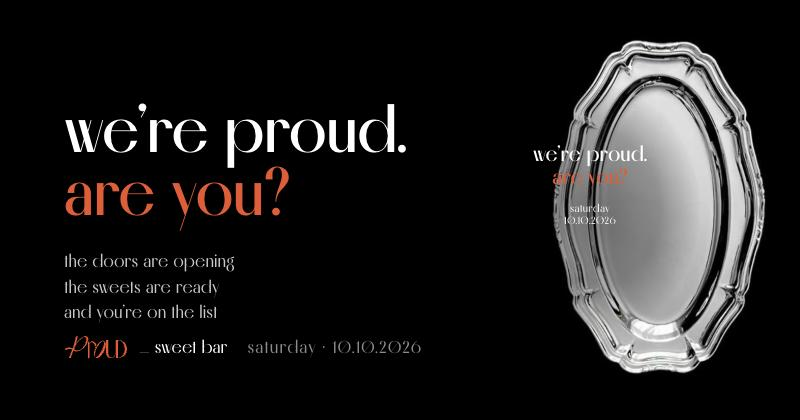
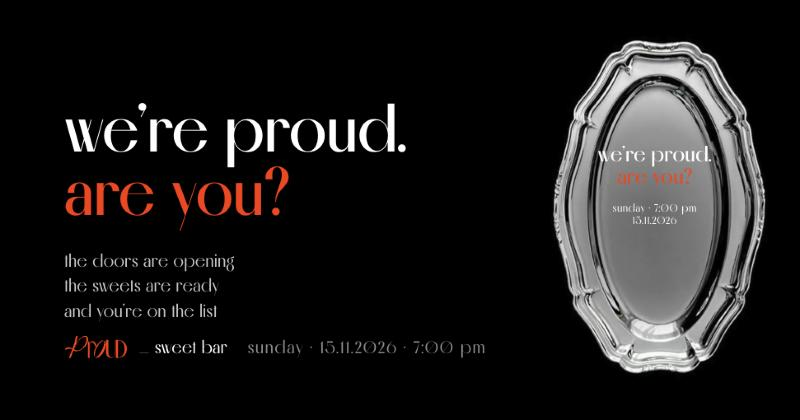
Move the opening to sunday 15.11.2026 at 7:00 pm; location QR on the card; hidden attribute fix

diff --git a/og.html b/og.html
@@ -4,7 +4,7 @@
 html,body{margin:0;background:#000;color:#fff;font-family:'Melodrama',Georgia,serif;font-weight:500;-webkit-font-smoothing:antialiased}
 .og{position:relative;width:1200px;height:630px;overflow:hidden;background:#000}
 .tray{position:absolute;left:640px;top:-150px;height:930px;width:auto}
-.velvet{position:absolute;left:720px;top:125px;width:330px;height:380px;border-radius:50%;background:radial-gradient(ellipse at 50% 50%,rgba(0,0,0,.45),rgba(0,0,0,.3) 45%,rgba(0,0,0,0) 72%)}
+.velvet{position:absolute;left:817px;top:125px;width:330px;height:380px;border-radius:50%;background:radial-gradient(ellipse at 50% 50%,rgba(0,0,0,.45),rgba(0,0,0,.3) 45%,rgba(0,0,0,0) 72%)}
 .copy{position:absolute;left:96px;top:150px}
 h1{margin:0;font-weight:600;font-size:92px;line-height:1.02;letter-spacing:-.01em}
 h1 em{font-style:normal;color:#ED532B}
@@ -12,17 +12,17 @@ h1 em{font-style:normal;color:#ED532B}
 .brand{position:absolute;left:96px;bottom:64px;display:flex;align-items:center;gap:16px;font-size:26px}
 .brand svg{width:96px;height:38px;fill:#ED532B}
 .brand span.d{color:rgba(255,255,255,.55);margin-left:14px;letter-spacing:.06em}
-.ontray{position:absolute;left:720px;top:215px;width:330px;text-align:center;font-weight:600;font-size:30px;line-height:1.12}
+.ontray{position:absolute;left:817px;top:215px;width:330px;text-align:center;font-weight:600;font-size:30px;line-height:1.12}
 .ontray em{font-style:normal;color:#ED532B}
 .ontray small{display:block;margin-top:22px;font-weight:500;font-size:16px;letter-spacing:.03em}
 </style></head><body>
 <div class="og">
   <img class="tray" src="assets/tray-still.png" alt="">
   <div class="velvet"></div>
-  <div class="ontray">we&rsquo;re proud.<br><em>are you?</em><small>saturday<br>10.10.2026</small></div>
+  <div class="ontray">we&rsquo;re proud.<br><em>are you?</em><small>sunday · 7:00 pm<br>15.11.2026</small></div>
   <div class="copy">
     <h1>we&rsquo;re proud.<br><em>are you?</em></h1>
     <p class="body">the doors are opening<br>the sweets are ready<br>and you&rsquo;re on the list</p>
   </div>
-  <p class="brand"><svg viewBox="0 0 42 16.5"><path transform="matrix(1 0 0 -1 3.1788 15.3171)" d="M0 0C.907 2.345 1.815 4.689 2.722 7.034 3.114 8.08 3.467 9.179 3.781 10.33 4.094 11.482 4.323 12.553 4.467 13.545 4.5 13.773 4.526 13.976 4.544 14.153L5.837 14.528 5.792 14.22C5.721 13.735 5.564 12.958 5.319 11.891 5.074 10.824 4.861 10.006 4.681 9.44 5.282 10.426 5.982 11.32 6.782 12.123 7.581 12.926 8.37 13.538 9.147 13.957 9.925 14.377 10.6 14.546 11.174 14.462 11.747 14.379 12.174 14.082 12.457 13.572 12.739 13.062 12.824 12.422 12.712 11.65 12.571 10.68 12.221 9.737 11.66 8.82 11.099 7.904 10.397 7.086 9.553 6.368 8.71 5.651 7.822 5.117 6.89 4.769 6.117 4.48 5.231 4.188 4.224 4.43 3.227 4.669 2.944 5.246 2.205 5.649 1.363 6.108-.037 6.324-2.482 5.234-2.43 5.592-2.378 5.949-2.326 6.307-1.173 7.04-.3 7.104 .29 7.022 1.718 6.823 3.3 5.514 4.895 5.059 4.99 5.032 5.141 4.995 5.337 4.966 5.947 4.878 6.588 4.993 7.261 5.311 7.934 5.63 8.567 6.125 9.16 6.797 9.707 7.415 10.213 8.21 10.677 9.182 11.141 10.154 11.426 11.011 11.534 11.754 11.624 12.371 11.589 12.867 11.43 13.243 11.271 13.619 11.003 13.834 10.629 13.889 10.1 13.965 9.446 13.751 8.667 13.245 7.888 12.739 7.093 12.016 6.281 11.076 5.696 10.41 5.182 9.675 4.739 8.869 4.295 8.063 3.867 7.116 3.454 6.028 2.687 4.018 1.92 2.009 1.153 0Z"/><path transform="matrix(1 0 0 -1 24.8120 10.3071)" d="M0 0C1.216 2.346 2.085 5.671 1.284 6.154 .491 6.633-1.928 4.325-3.243 1.79-4.563-.754-5.075-4.113-4.245-4.522-3.408-4.935-1.213-2.34 0 0M-3.906 2.152C-2.226 5.401 .084 7.07 1.577 6.255 3.069 5.44 3.009 2.543 1.329-.706-.351-3.956-2.662-5.644-4.154-4.829-5.647-4.014-5.585-1.097-3.906 2.152"/><path transform="matrix(1 0 0 -1 29.0865 11.8852)" d="M0 0C0-1.751 .819-3.015 2.228-3.015 3.604-3.015 4.489-1.751 4.489 0V8.404H4.718V0C4.718-2.071 3.489-3.436 1.671-3.436-.148-3.436-1.458-2.105-1.458 0V8.404H0Z"/><path transform="matrix(1 0 0 -1 35.4923 3.7030)" d="M0 0V-11.396H.082C2.523-11.396 4.374-9.038 4.374-5.689 4.374-2.358 2.523 0 .082 0ZM-1.442 .222H.082C3.375 .222 5.865-2.221 5.865-5.689 5.865-9.158 3.375-11.618 .082-11.618H-1.442Z"/><path transform="matrix(1 0 0 -1 20.3723 5.1178)" d="M0 0C-.297 .329-.738 .816-1.445 .896-2.146 .974-2.677 .607-2.878 .471-3.295 .186-3.62-.229-3.828-.738V.683H-4.461C-4.526 .477-4.591 .271-4.656 .065-4.652-3.364-4.647-6.793-4.642-10.222-4.288-10.214-3.934-10.207-3.581-10.199V-1.943C-3.581-1.791-3.605-1.277-3.332-.739-3.263-.603-2.857 .196-2.199 .28-1.126 .418-.263-1.452-.208-1.574 .085-2.218 .145-2.818 .149-3.221 .391-2.77 .634-2.319 .877-1.868 .808-1.45 .615-.68 0 0"/></svg><span>_ sweet bar</span><span class="d">saturday · 10.10.2026</span></p>
+  <p class="brand"><svg viewBox="0 0 42 16.5"><path transform="matrix(1 0 0 -1 3.1788 15.3171)" d="M0 0C.907 2.345 1.815 4.689 2.722 7.034 3.114 8.08 3.467 9.179 3.781 10.33 4.094 11.482 4.323 12.553 4.467 13.545 4.5 13.773 4.526 13.976 4.544 14.153L5.837 14.528 5.792 14.22C5.721 13.735 5.564 12.958 5.319 11.891 5.074 10.824 4.861 10.006 4.681 9.44 5.282 10.426 5.982 11.32 6.782 12.123 7.581 12.926 8.37 13.538 9.147 13.957 9.925 14.377 10.6 14.546 11.174 14.462 11.747 14.379 12.174 14.082 12.457 13.572 12.739 13.062 12.824 12.422 12.712 11.65 12.571 10.68 12.221 9.737 11.66 8.82 11.099 7.904 10.397 7.086 9.553 6.368 8.71 5.651 7.822 5.117 6.89 4.769 6.117 4.48 5.231 4.188 4.224 4.43 3.227 4.669 2.944 5.246 2.205 5.649 1.363 6.108-.037 6.324-2.482 5.234-2.43 5.592-2.378 5.949-2.326 6.307-1.173 7.04-.3 7.104 .29 7.022 1.718 6.823 3.3 5.514 4.895 5.059 4.99 5.032 5.141 4.995 5.337 4.966 5.947 4.878 6.588 4.993 7.261 5.311 7.934 5.63 8.567 6.125 9.16 6.797 9.707 7.415 10.213 8.21 10.677 9.182 11.141 10.154 11.426 11.011 11.534 11.754 11.624 12.371 11.589 12.867 11.43 13.243 11.271 13.619 11.003 13.834 10.629 13.889 10.1 13.965 9.446 13.751 8.667 13.245 7.888 12.739 7.093 12.016 6.281 11.076 5.696 10.41 5.182 9.675 4.739 8.869 4.295 8.063 3.867 7.116 3.454 6.028 2.687 4.018 1.92 2.009 1.153 0Z"/><path transform="matrix(1 0 0 -1 24.8120 10.3071)" d="M0 0C1.216 2.346 2.085 5.671 1.284 6.154 .491 6.633-1.928 4.325-3.243 1.79-4.563-.754-5.075-4.113-4.245-4.522-3.408-4.935-1.213-2.34 0 0M-3.906 2.152C-2.226 5.401 .084 7.07 1.577 6.255 3.069 5.44 3.009 2.543 1.329-.706-.351-3.956-2.662-5.644-4.154-4.829-5.647-4.014-5.585-1.097-3.906 2.152"/><path transform="matrix(1 0 0 -1 29.0865 11.8852)" d="M0 0C0-1.751 .819-3.015 2.228-3.015 3.604-3.015 4.489-1.751 4.489 0V8.404H4.718V0C4.718-2.071 3.489-3.436 1.671-3.436-.148-3.436-1.458-2.105-1.458 0V8.404H0Z"/><path transform="matrix(1 0 0 -1 35.4923 3.7030)" d="M0 0V-11.396H.082C2.523-11.396 4.374-9.038 4.374-5.689 4.374-2.358 2.523 0 .082 0ZM-1.442 .222H.082C3.375 .222 5.865-2.221 5.865-5.689 5.865-9.158 3.375-11.618 .082-11.618H-1.442Z"/><path transform="matrix(1 0 0 -1 20.3723 5.1178)" d="M0 0C-.297 .329-.738 .816-1.445 .896-2.146 .974-2.677 .607-2.878 .471-3.295 .186-3.62-.229-3.828-.738V.683H-4.461C-4.526 .477-4.591 .271-4.656 .065-4.652-3.364-4.647-6.793-4.642-10.222-4.288-10.214-3.934-10.207-3.581-10.199V-1.943C-3.581-1.791-3.605-1.277-3.332-.739-3.263-.603-2.857 .196-2.199 .28-1.126 .418-.263-1.452-.208-1.574 .085-2.218 .145-2.818 .149-3.221 .391-2.77 .634-2.319 .877-1.868 .808-1.45 .615-.68 0 0"/></svg><span>_ sweet bar</span><span class="d">sunday · 15.11.2026 · 7:00 pm</span></p>
 </div></body></html>

diff --git a/index.html b/index.html
@@ -4,14 +4,14 @@
 <meta charset="utf-8">
 <meta name="viewport" content="width=device-width, initial-scale=1, viewport-fit=cover">
 <title>we're proud. are you? — PROUD _ sweet bar</title>
-<meta name="description" content="the doors are opening. the sweets are ready. and you're on the list. PROUD _ sweet bar — saturday 10.10.2026">
+<meta name="description" content="the doors are opening. the sweets are ready. and you're on the list. PROUD _ sweet bar — sunday 15.11.2026, 7:00 pm">
 <meta name="theme-color" content="#000000">
 <meta name="apple-mobile-web-app-status-bar-style" content="black">
 <meta property="og:title" content="we're proud. are you?">
-<meta property="og:description" content="the doors are opening · the sweets are ready · and you're on the list — PROUD _ sweet bar, saturday 10.10.2026">
+<meta property="og:description" content="the doors are opening · the sweets are ready · and you're on the list — PROUD _ sweet bar, sunday 15.11.2026, 7:00 pm">
 <meta property="og:type" content="website">
 <meta property="og:url" content="https://n8ww.github.io/proud-invite/">
-<meta property="og:image" content="https://n8ww.github.io/proud-invite/assets/og.jpg">
+<meta property="og:image" content="https://n8ww.github.io/proud-invite/assets/og.jpg?v=1115">
 <meta property="og:image:width" content="800">
 <meta property="og:image:height" content="420">
 <meta name="twitter:card" content="summary_large_image">
@@ -20,7 +20,7 @@
 <link rel="preconnect" href="https://cdn.fontshare.com" crossorigin>
 <link rel="preload" as="image" href="assets/tray-still.png">
 <link rel="stylesheet" href="https://api.fontshare.com/v2/css?f[]=melodrama@400,500,600,700&display=swap">
-<link rel="stylesheet" href="css/style.css">
+<link rel="stylesheet" href="css/style.css?v=1115">
 </head>
 <body>
 <svg width="0" height="0" style="position:absolute" aria-hidden="true">
@@ -48,7 +48,7 @@
                 <span class="line line--orange"><span>are you?</span></span>
               </p>
               <p class="tray__brand"><svg class="wordmark wordmark--orange"><use href="#proud"/></svg><span class="tray__bar">_ sweet bar</span></p>
-              <p class="tray__when"><span data-day>saturday</span><br><span data-date>10.10.2026</span></p>
+              <p class="tray__when"><span data-daytime>sunday · 7:00 pm</span><br><span data-date>15.11.2026</span></p>
             </div>
             <div class="glint"></div>
           </div>
@@ -66,11 +66,11 @@
   </section>
 
   <section class="when">
-    <p class="when__day"><span class="mask"><span data-day>saturday</span></span></p>
-    <h1 class="when__date"><span class="mask"><span data-date>10.10.2026</span></span></h1>
+    <p class="when__day"><span class="mask"><span data-day>sunday</span></span></p>
+    <h1 class="when__date"><span class="mask"><span data-date>15.11.2026</span></span></h1>
+    <p class="when__time" data-time-wrap><span class="mask"><span data-time-big>7:00 pm</span></span></p>
     <i class="when__rule" aria-hidden="true"></i>
     <dl class="when__details" data-details hidden>
-      <div data-row="time" hidden><dt>time</dt><dd data-time></dd></div>
       <div data-row="venue" hidden><dt>venue</dt><dd data-venue></dd></div>
     </dl>
     <div class="when__actions">
@@ -89,8 +89,8 @@
         <p class="card__body">the doors are opening<br>the sweets are ready<br>and you&rsquo;re on the list</p>
         <p class="card__name" data-name hidden></p>
         <p class="card__brand"><svg class="wordmark wordmark--orange"><use href="#proud"/></svg><span class="card__bar">_ sweet bar</span></p>
-        <i class="card__square" aria-hidden="true"></i>
-        <p class="card__when"><span data-day>saturday</span><br><span data-date>10.10.2026</span></p>
+        <a class="card__square" data-square href="#" target="_blank" rel="noopener" aria-label="open the location in maps"><img src="assets/qr.svg?v=1115" alt="" draggable="false"></a>
+        <p class="card__when"><span data-daytime>sunday · 7:00 pm</span><br><span data-date>15.11.2026</span></p>
       </div>
       <div class="glint"></div>
     </div>
@@ -98,14 +98,14 @@
 
   <section class="end">
     <p class="end__brand"><svg class="wordmark wordmark--orange"><use href="#proud"/></svg><span>_ sweet bar</span></p>
-    <p class="end__meta"><span data-day>saturday</span> · <span data-date>10.10.2026</span></p>
+    <p class="end__meta"><span data-daytime>sunday · 7:00 pm</span> · <span data-date>15.11.2026</span></p>
   </section>
 </main>
 
 <script src="https://cdnjs.cloudflare.com/ajax/libs/gsap/3.13.0/gsap.min.js" defer></script>
 <script src="https://cdnjs.cloudflare.com/ajax/libs/gsap/3.13.0/ScrollTrigger.min.js" defer></script>
 <script src="https://unpkg.com/lenis@1.3.4/dist/lenis.min.js" defer></script>
-<script src="config.js" defer></script>
-<script src="js/main.js" defer></script>
+<script src="config.js?v=1115" defer></script>
+<script src="js/main.js?v=1115" defer></script>
 </body>
 </html>

diff --git a/js/main.js b/js/main.js
@@ -26,13 +26,18 @@
     const h = hp.get('to') || hp.get('name') || sp.get('to') || sp.get('name');
     return h ? h.trim().slice(0, 40) : '';
   })();
-  $$('[data-day]').forEach(el => el.textContent = cfg.dayLabel || 'saturday');
-  $$('[data-date]').forEach(el => el.textContent = cfg.dateLabel || '10.10.2026');
+  const day = cfg.dayLabel || 'sunday', dateLabel = cfg.dateLabel || '15.11.2026';
+  const dayTime = cfg.time ? `${day} · ${cfg.time}` : day;
+  $$('[data-day]').forEach(el => el.textContent = day);
+  $$('[data-daytime]').forEach(el => el.textContent = dayTime);
+  $$('[data-date]').forEach(el => el.textContent = dateLabel);
+  if (cfg.time) $('[data-time-big]').textContent = cfg.time; else $('[data-time-wrap]').hidden = true;
   const details = $('[data-details]');
-  let anyDetail = false;
-  if (cfg.time) { $('[data-time]').textContent = cfg.time; $('[data-row="time"]').hidden = false; anyDetail = true; }
-  if (cfg.venue) { $('[data-venue]').textContent = cfg.venue; $('[data-row="venue"]').hidden = false; anyDetail = true; }
-  details.hidden = !anyDetail;
+  if (cfg.venue) { $('[data-venue]').textContent = cfg.venue; $('[data-row="venue"]').hidden = false; details.hidden = false; } else details.hidden = true;
+  // the white square on the card carries the location QR and opens the same link when tapped
+  const square = $('[data-square]');
+  if (cfg.mapUrl) { square.href = cfg.mapUrl; square.addEventListener('click', e => e.stopPropagation()); }
+  else { square.removeAttribute('href'); square.removeAttribute('target'); const im = $('img', square); if (im) im.remove(); }
   const rsvp = $('[data-rsvp]');
   rsvp.textContent = cfg.rsvpLabel || 'rsvp';
   if (cfg.rsvpUrl) { rsvp.href = cfg.rsvpUrl; rsvp.target = '_blank'; } else { rsvp.classList.add('is-pending'); rsvp.removeAttribute('href'); rsvp.setAttribute('aria-disabled', 'true'); }
@@ -45,13 +50,15 @@
     let dates;
     if (cfg.timeStart) {
       const s = cfg.timeStart.replace(':', '') + '00';
-      const e = (cfg.timeEnd || cfg.timeStart).replace(':', '') + '00';
+      let e;
+      if (cfg.timeEnd) e = cfg.timeEnd.replace(':', '') + '00';
+      else { const [hh, mm] = cfg.timeStart.split(':').map(Number); e = hh + 3 > 23 ? '235900' : String(hh + 3).padStart(2, '0') + String(mm).padStart(2, '0') + '00'; }   // default length: 3 hours
       dates = `${d}T${s}/${d}T${e}`;
     } else {
       const next = new Date(cfg.date + 'T00:00:00Z'); next.setUTCDate(next.getUTCDate() + 1);
       dates = `${d}/${next.toISOString().slice(0, 10).replace(/-/g, '')}`;
     }
-    const q = new URLSearchParams({ action: 'TEMPLATE', text: cfg.eventTitle || 'PROUD _ sweet bar', dates, details: "we're proud. are you?", location: cfg.venue || '' });
+    const q = new URLSearchParams({ action: 'TEMPLATE', text: cfg.eventTitle || 'PROUD _ sweet bar', dates, details: "we're proud. are you?", location: cfg.venue || cfg.mapUrl || '' });
     if (cfg.timeStart) q.set('ctz', 'Asia/Riyadh');
     cal.href = 'https://calendar.google.com/calendar/render?' + q.toString();
   }
@@ -286,6 +293,7 @@
     const when = gsap.timeline({ scrollTrigger: { trigger: '.when', start: 'top 72%', once: true } });
     when.to('.when__day .mask > span', { yPercent: 0, duration: 1, ease: 'expo.out' }, 0);
     when.to('.when__date .mask > span', { yPercent: 0, duration: 1.3, ease: 'expo.out' }, 0.12);
+    when.to('.when__time .mask > span', { yPercent: 0, duration: 1.1, ease: 'expo.out' }, 0.3);
     when.to('.when__rule', { scaleX: 1, duration: 1.2, ease: 'expo.out' }, 0.5);
     when.from(['.when__details', '.when__actions'], { opacity: 0, y: 14, duration: 1, ease: 'power2.out', stagger: 0.12 }, 0.7);
 

diff --git a/css/style.css b/css/style.css
@@ -129,6 +129,7 @@ p, h1, dl, dd { margin: 0; }
 }
 .when__day { font-size: clamp(14px, 1.8vw, 18px); letter-spacing: .34em; color: var(--dim); margin-bottom: 10px; padding-left: .34em; }
 .when__date { font-weight: 600; font-size: clamp(52px, 15vw, 168px); line-height: 1; letter-spacing: -.02em; font-variant-numeric: tabular-nums; }
+.when__time { font-weight: 500; font-size: clamp(22px, 4.4vw, 46px); line-height: 1.1; letter-spacing: .01em; margin-top: 16px; }
 .when__rule { display: block; width: min(60vw, 420px); height: 1px; margin: 34px 0 30px; background: linear-gradient(90deg, transparent, rgba(255,255,255,.55), transparent); transform: scaleX(0); }
 .when__details { display: grid; gap: 10px; margin-bottom: 30px; font-size: clamp(16px, 2.2vw, 22px); }
 .when__details div { display: flex; gap: 14px; justify-content: center; align-items: baseline; }
@@ -153,14 +154,15 @@ p, h1, dl, dd { margin: 0; }
 .card__still { position: absolute; height: 186.3%; width: auto; left: 50%; top: -42.2%; transform: translateX(-50%); max-width: none; pointer-events: none; }
 .card__text { position: absolute; inset: 0; text-align: center; color: var(--ink); }
 .card__text > * { position: absolute; left: 10%; right: 10%; }
-.card__title { top: 31.3%; font-weight: 600; font-size: 5.6cqh; line-height: 1.12; letter-spacing: -.005em; }
+.card__title { top: 28.8%; font-weight: 600; font-size: 5.6cqh; line-height: 1.12; letter-spacing: -.005em; }
 .card__title em { font-style: normal; color: var(--orange); }
-.card__body { top: 46.4%; font-weight: 500; font-size: 3.1cqh; line-height: 1.32; }
-.card__name { top: 58.2%; font-size: 2.6cqh; color: var(--orange); letter-spacing: .04em; }
-.card__brand { top: 62.4%; display: flex; justify-content: center; align-items: baseline; gap: .55em; font-size: 3.1cqh; }
+.card__body { top: 43.2%; font-weight: 500; font-size: 3.1cqh; line-height: 1.32; }
+.card__name { top: 55.9%; font-size: 2.6cqh; color: var(--orange); letter-spacing: .04em; }
+.card__brand { top: 59%; display: flex; justify-content: center; align-items: baseline; gap: .55em; font-size: 3.1cqh; }
 .card__brand .wordmark { font-size: 2.9em; align-self: center; }
-.card__square { top: 69.4%; left: 50% !important; right: auto !important; width: 6.5cqh; height: 6.5cqh; transform: translateX(-50%); background: #fff; }
-.card__when { top: 77%; font-size: 2.8cqh; line-height: 1.25; letter-spacing: .02em; }
+.card__square { top: 64.6%; left: 50% !important; right: auto !important; width: 10cqh; height: 10cqh; transform: translateX(-50%); background: #fff; display: block; }
+.card__square img { width: 100%; height: 100%; display: block; }
+.card__when { top: 76%; font-size: 2.8cqh; line-height: 1.25; letter-spacing: .02em; }
 
 /* ── end ────────────────────────────────────────────────── */
 .end { position: relative; z-index: 2; background: var(--bg); padding: 12svh var(--gutter) calc(env(safe-area-inset-bottom) + 14svh); display: grid; justify-items: center; text-align: center; gap: 18px; }
@@ -175,3 +177,6 @@ html.reduced .tray__brand .wordmark { clip-path: none; }
 html.reduced .scroll-cue { opacity: 1; } html.reduced .scroll-cue i { transform: none; }
 html.reduced .when__rule { transform: none; }
 html.reduced .blade, html.reduced .film { display: none; }
+
+/* the hidden attribute always wins over component display rules */
+[hidden] { display: none !important; }

diff --git a/config.js b/config.js
@@ -1,14 +1,14 @@
 // ── PROUD _ sweet bar · invitation settings ─────────────────────────────
 // Edit this file only. Leave a value empty ('') to hide it on the page.
 window.PROUD_CONFIG = {
-  date: '2026-10-10',        // ISO date used for the calendar link
-  dateLabel: '10.10.2026',   // printed exactly as on the invitation
-  dayLabel: 'saturday',
-  time: '',                  // e.g. '7:30 pm'  (shown under the date when set)
-  timeStart: '',             // e.g. '19:30'   (24h, for the calendar link)
-  timeEnd: '',               // e.g. '23:00'
+  date: '2026-11-15',        // ISO date used for the calendar link
+  dateLabel: '15.11.2026',   // printed exactly as on the invitation
+  dayLabel: 'sunday',
+  time: '7:00 pm',           // shown under the date and beside the day on the trays
+  timeStart: '19:00',        // 24h, for the calendar link
+  timeEnd: '',               // e.g. '23:00' (empty = the calendar entry lasts 3 hours)
   venue: '',                 // e.g. 'al khobar'
-  mapUrl: '',                // e.g. 'https://maps.app.goo.gl/...'
+  mapUrl: 'https://maps.app.goo.gl/QZ8nPfjADENtaFjd6?g_st=ic',   // the QR on the card (assets/qr.svg) encodes this same link
   rsvpUrl: '',               // e.g. 'https://wa.me/9665XXXXXXXX?text=I%27m%20in'
   rsvpLabel: 'rsvp',
   calendar: true,            // show "add to calendar"
